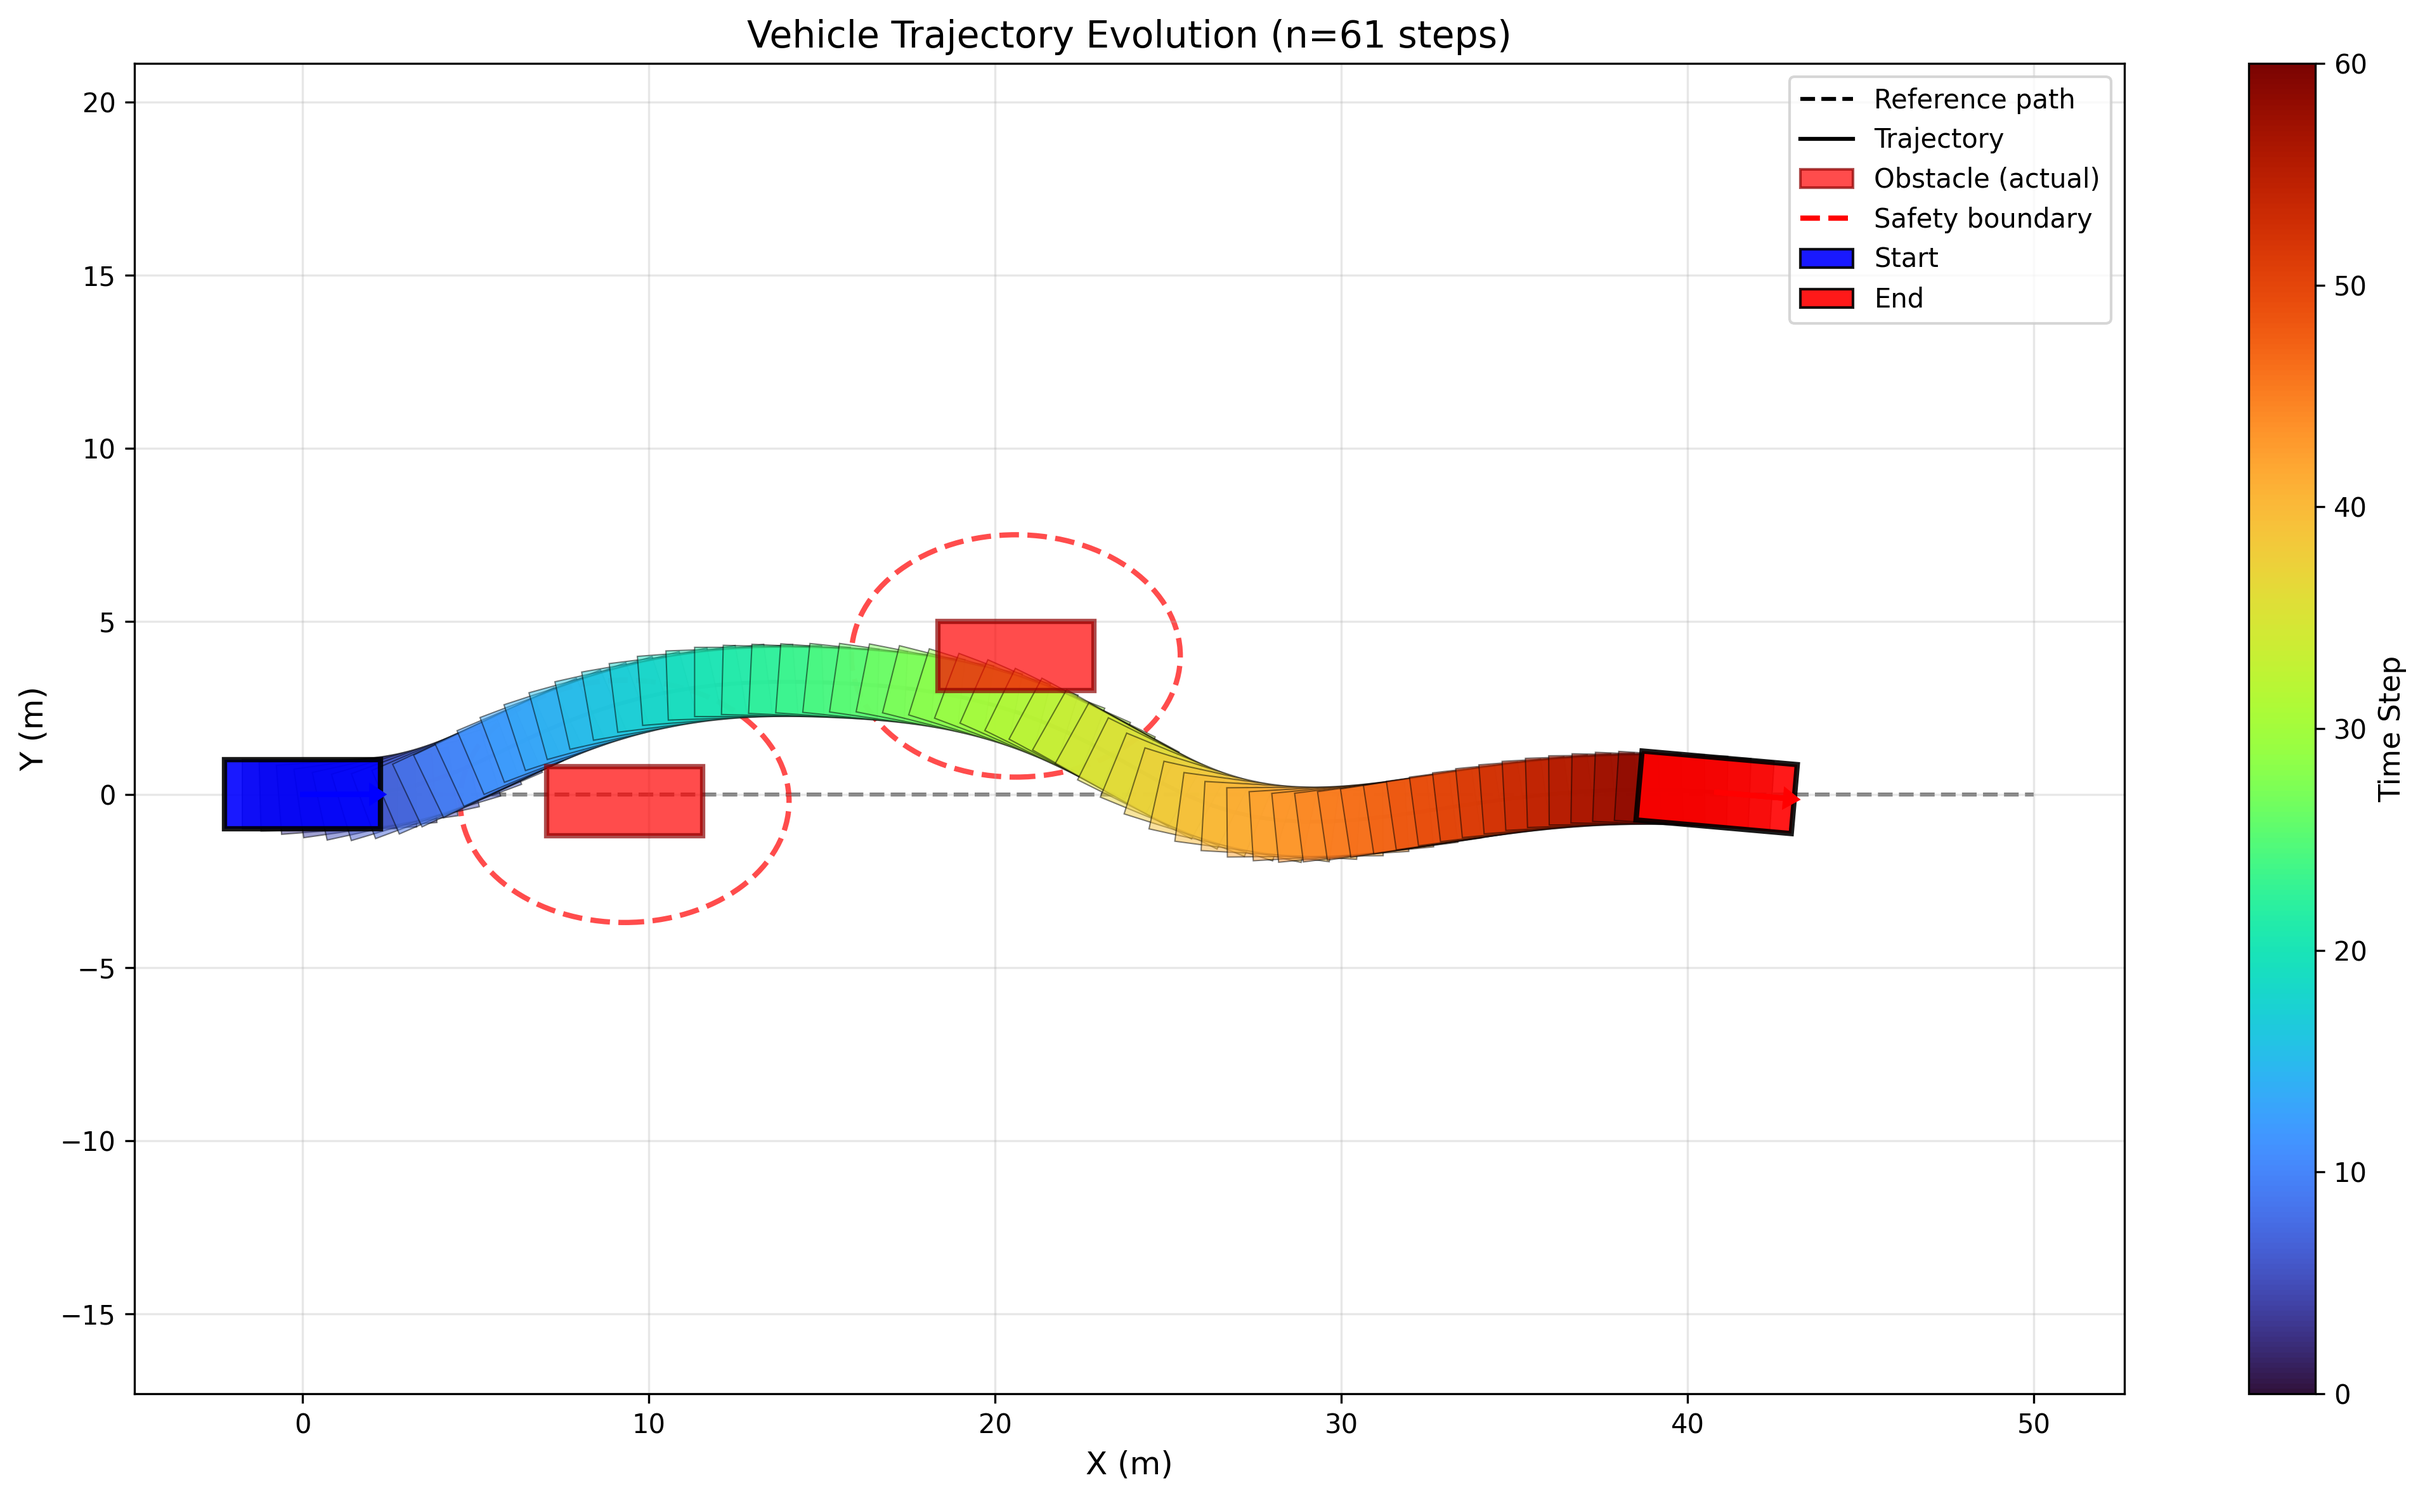
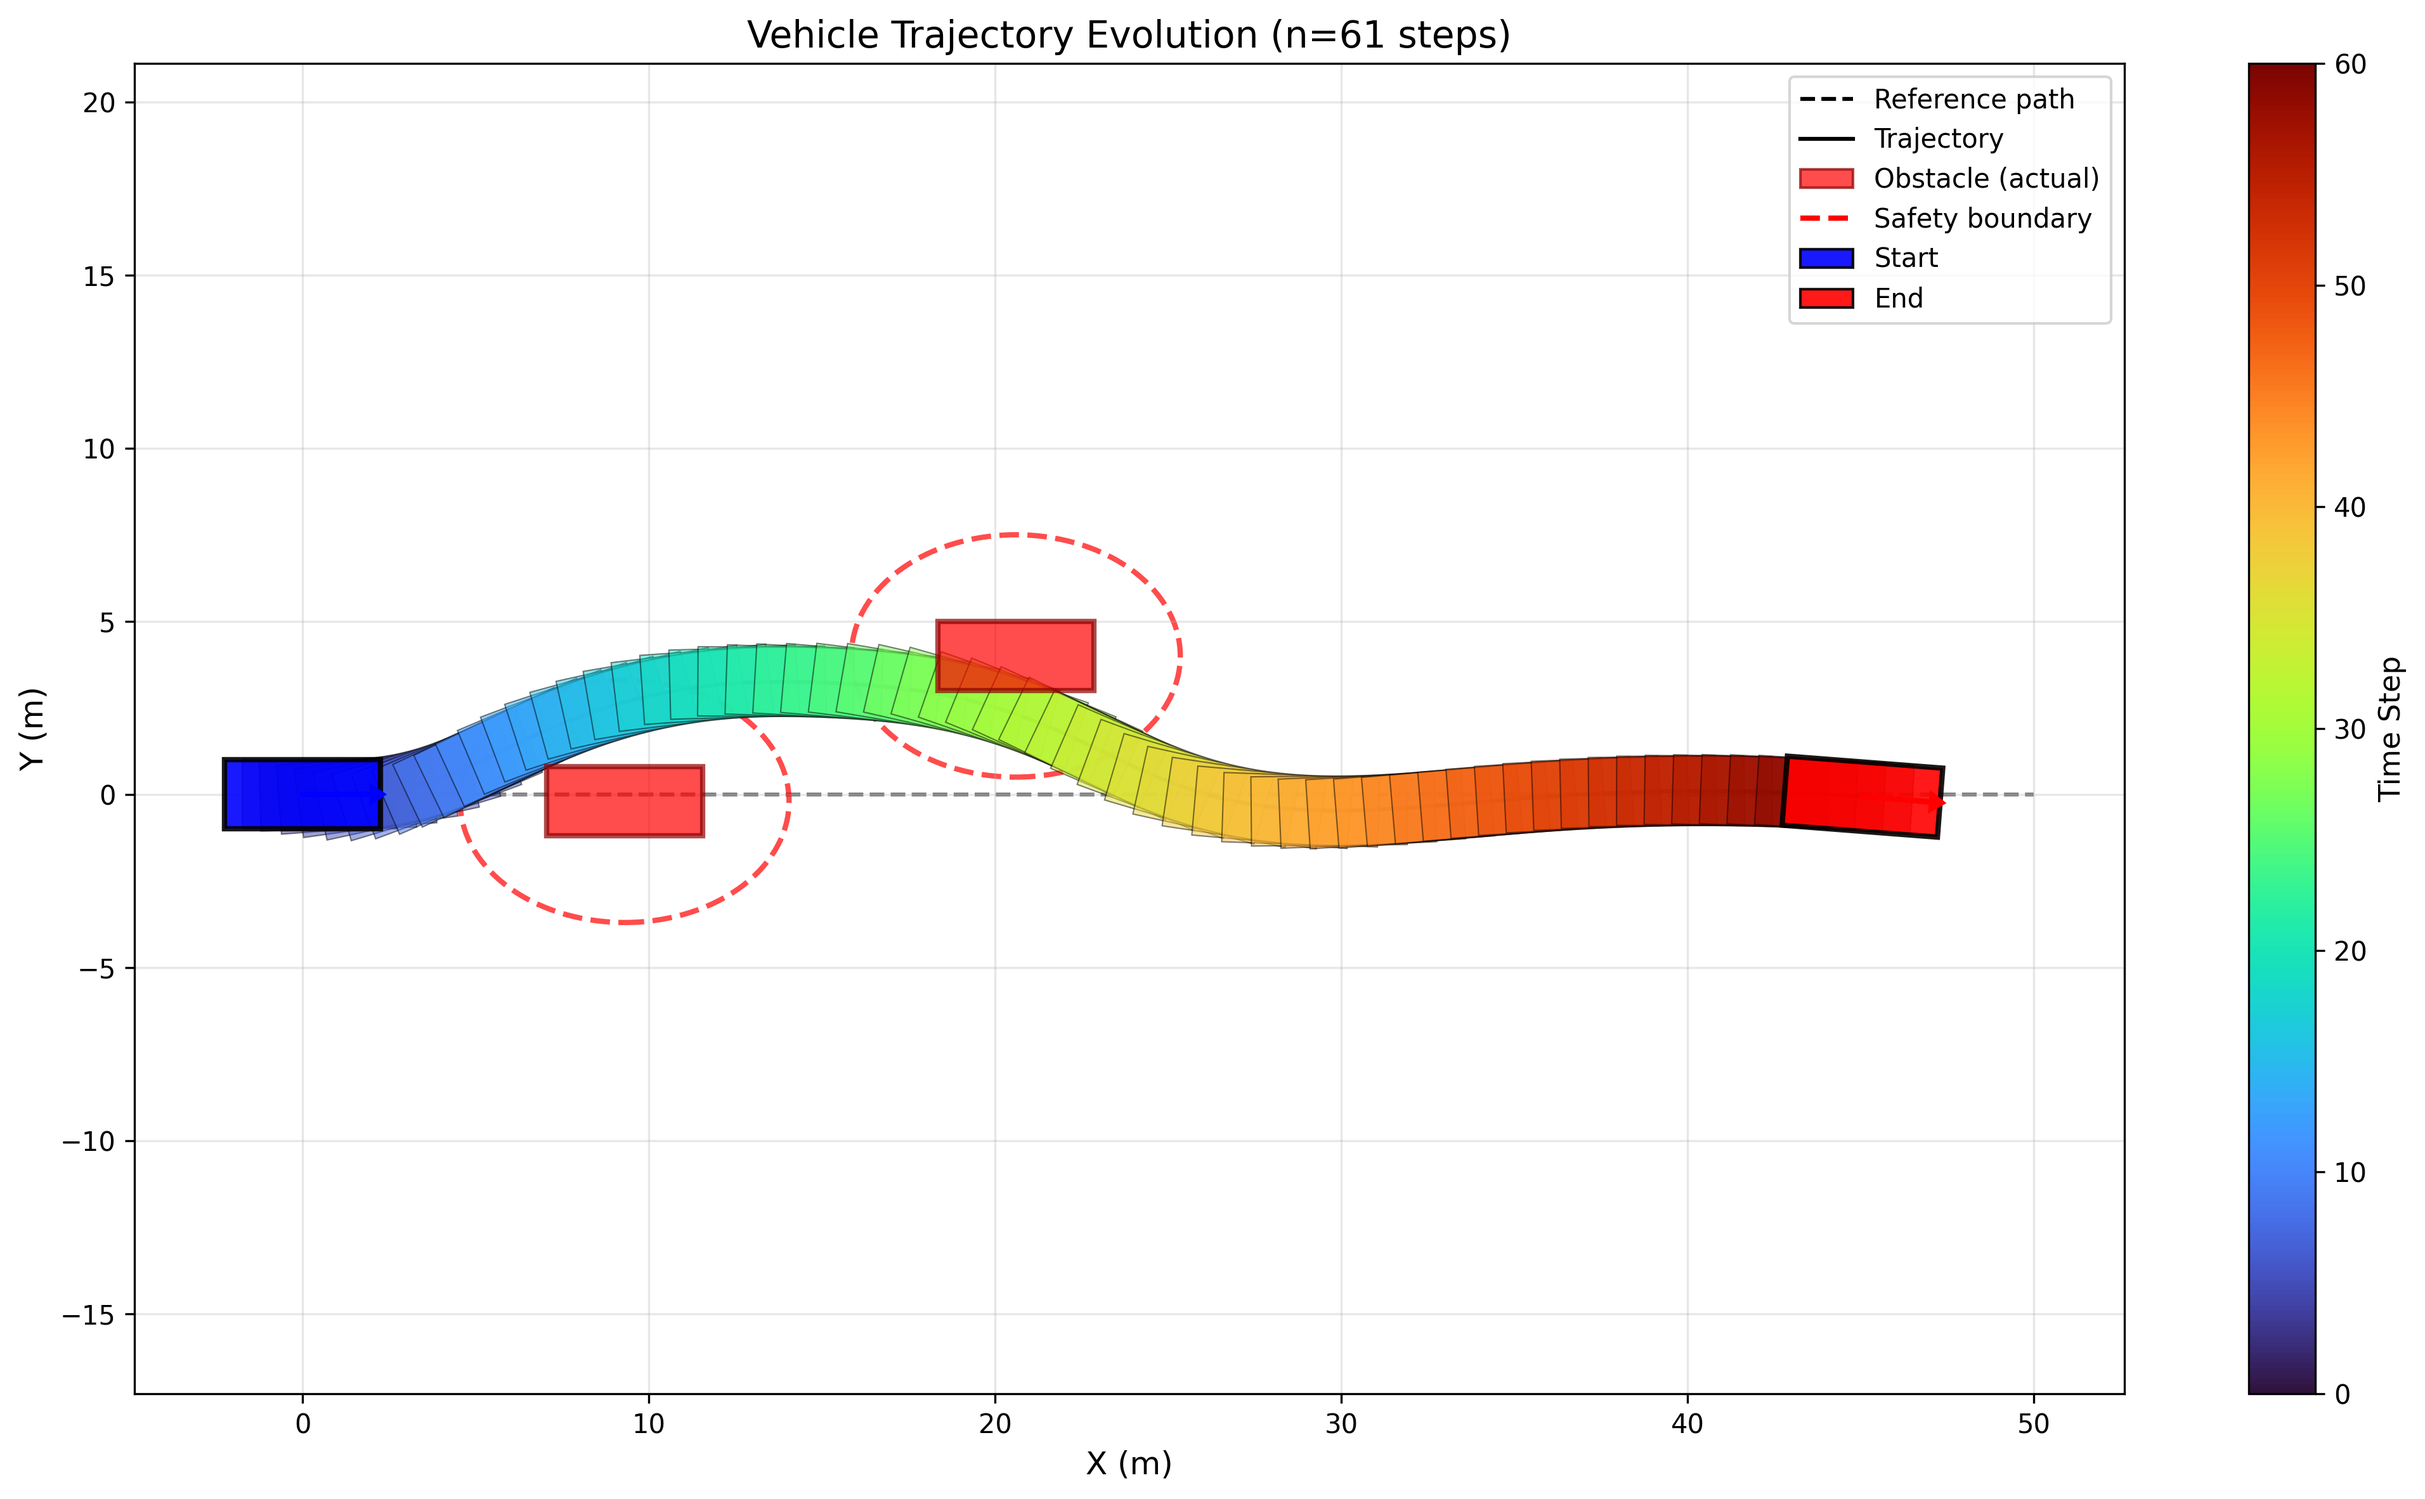
chore: Update ALM_ilqr_v3 package with improvements
- Move README.md to repository root for better visibility
- Update ALM_Model_v2.py (V2 formulation implementation)
- Update alm_ilqr_core.py with solver improvements
- Update alm_model.py with ALM model enhancements
- Update model_base.py with base class improvements
- Update planning_main.py with planning enhancements
- Update simulation files (GIF and PNG)

Changed region(s): [[0.2178, 0.4323, 0.8091, 0.5867]]

diff --git a/ALM_ilqr_v3/alm_model.py b/ALM_ilqr_v3/alm_model.py
@@ -498,6 +498,74 @@ class ALMModel(ModelBase):
         """
         return np.zeros((x.size, x.size))
 
+    def update_lambda(
+        self,
+        states: np.ndarray,
+        controls: np.ndarray,
+        obstacles: List[Obstacle]
+    ) -> None:
+        """Update Lagrange multipliers using V3 projected gradient formulation.
+
+        V3: Lambda = min(0, Lambda - mu * constraint)
+
+        Args:
+            states: State trajectory.
+            controls: Control sequence.
+            obstacles: List of obstacle objects.
+        """
+        for i in range(1, self.horizon + 1):
+            constraint = self.compute_constraint(states, controls, obstacles, i)
+            self.lambda_alm[i - 1] = self._projection(
+                self.lambda_alm[i - 1] - self.mu * constraint
+            )
+
+    def update_mu(
+        self,
+        states: np.ndarray,
+        controls: np.ndarray,
+        obstacles: List[Obstacle]
+    ) -> None:
+        """Update penalty matrix I_mu based on active constraints.
+
+        Only constraints with positive multiplier or violation are penalized.
+
+        Args:
+            states: State trajectory.
+            controls: Control sequence.
+            obstacles: List of obstacle objects.
+        """
+        if not hasattr(self, 'i_mu'):
+            constraint_dim = 2 * self.control_dim + 2 + 2 * len(obstacles)
+            self.init_multipliers(constraint_dim)
+
+        i_mu_next = self.i_mu.copy()
+        constraint_dim = 2 * self.control_dim + 2 + 2 * len(obstacles)
+
+        for i in range(1, self.horizon + 1):
+            constraint = self.compute_constraint(states, controls, obstacles, i)
+            for j in range(constraint_dim):
+                if self.lambda_alm[i - 1, j] == 0 and constraint[j] <= 0:
+                    i_mu_next[i - 1, j, j] = 0
+                else:
+                    i_mu_next[i - 1, j, j] = self.mu
+
+        self.i_mu = i_mu_next
+
+    def update_mu_scalar(self, factor: float = 2.0) -> None:
+        """Increase penalty parameter mu by multiplicative factor.
+
+        Called when constraint violation is large to increase penalty weight
+        and force constraint satisfaction.
+
+        Args:
+            factor: Multiplicative factor for increasing mu.
+        """
+        self.mu *= factor
+        for i in range(self.horizon):
+            for j in range(self.i_mu.shape[1]):
+                if self.i_mu[i, j, j] > 0:
+                    self.i_mu[i, j, j] = self.mu
+
     def compute_cost(
         self,
         states: np.ndarray,

diff --git a/ALM_ilqr_v3/model_base.py b/ALM_ilqr_v3/model_base.py
@@ -358,25 +358,23 @@ class ModelBase(ABC):
         )
         self.lambda_alm = np.zeros((self.horizon, constraint_dim))
 
+    @abstractmethod
     def update_lambda(
         self,
         states: np.ndarray,
         controls: np.ndarray,
         obstacles: List
     ) -> None:
-        """Update Lagrange multipliers using projected gradient step.
+        """Update Lagrange multipliers using ALM formulation.
 
         Args:
             states: State trajectory.
             controls: Control sequence.
             obstacles: List of obstacle objects.
         """
-        for i in range(1, self.horizon + 1):
-            constraint = self.compute_constraint(states, controls, obstacles, i)
-            self.lambda_alm[i - 1] = self._projection(
-                self.lambda_alm[i - 1] - self.mu * constraint
-            )
+        pass
 
+    @abstractmethod
     def update_mu(
         self,
         states: np.ndarray,
@@ -392,23 +390,9 @@ class ModelBase(ABC):
             controls: Control sequence.
             obstacles: List of obstacle objects.
         """
-        if not hasattr(self, 'i_mu'):
-            constraint_dim = 2 * self.control_dim + 2 + 2 * len(obstacles)
-            self.init_multipliers(constraint_dim)
+        pass
 
-        i_mu_next = self.i_mu.copy()
-        constraint_dim = 2 * self.control_dim + 2 + 2 * len(obstacles)
-
-        for i in range(1, self.horizon + 1):
-            constraint = self.compute_constraint(states, controls, obstacles, i)
-            for j in range(constraint_dim):
-                if self.lambda_alm[i - 1, j] == 0 and constraint[j] <= 0:
-                    i_mu_next[i - 1, j, j] = 0
-                else:
-                    i_mu_next[i - 1, j, j] = self.mu
-
-        self.i_mu = i_mu_next
-
+    @abstractmethod
     def update_mu_scalar(self, factor: float = 2.0) -> None:
         """Increase penalty parameter mu by multiplicative factor.
 
@@ -418,8 +402,4 @@ class ModelBase(ABC):
         Args:
             factor: Multiplicative factor for increasing mu.
         """
-        self.mu *= factor
-        for i in range(self.horizon):
-            for j in range(self.i_mu.shape[1]):
-                if self.i_mu[i, j, j] > 0:
-                    self.i_mu[i, j, j] = self.mu
+        pass

diff --git a/ALM_ilqr_v3/simulation_animation.py b/ALM_ilqr_v3/simulation_animation.py
@@ -23,7 +23,8 @@ from matplotlib.patches import Polygon
 import numpy as np
 
 from alm_ilqr_core import ALMILQRCore
-from alm_model import ALMModel
+# from alm_model import ALMModel
+from ALM_Model_v2 import ALMModelV2 as ALMModel
 from obstacle import Obstacle
 
 
@@ -45,7 +46,7 @@ CONFIG: Dict = {
     'dt': 0.1,
     'Q': np.diag([0.0, 1.0, 0.5, 0.0, 0.0]),
     'R': np.diag([1.0, 1.0]),
-    'ref_velo': 5.0,
+    'ref_velo': 8.0,
     'state_dim': 5,
     'control_dim': 2,
     'wheelbase': WHEELBASE,
@@ -58,8 +59,8 @@ CONFIG: Dict = {
     'armijo_beta': 0.5,
     'armijo_alpha_min': 1e-1,
     'init_lamb': 20.0,
-    'max_alm_iters': 8,
-    'max_ilqr_iters': 8,
+    'max_alm_iters': 10,
+    'max_ilqr_iters': 10,
     'violation_tol': 1e-4,
     'small_violation_threshold': 1e-2,
     'mu_gain': 8,
@@ -158,8 +159,10 @@ def run_simulation() -> Tuple[Dict, np.ndarray, List[Dict]]:
     obstacle_attr_2 = np.array([VEHICLE_WIDTH, VEHICLE_LENGTH, SAFETY_BUFFER])
 
     # Obstacle states [x, y, v, yaw]
-    obs_1 = [9, -0.2, 1, -0.0]
+    obs_1 = [8, -0.2, 3, -0.0]
     obs_2 = [20, 4, 2.0, 0]
+    # obs_1 = [8, -0.2, 3, -0.0]
+    # obs_2 = [20, 4, -2.0, 0]
 
     obstacle_list_init = [
         Obstacle(obs_1, obstacle_attr_1),

diff --git a/ALM_ilqr_v3/ALM_Model_v2.py b/ALM_ilqr_v3/ALM_Model_v2.py
@@ -553,3 +553,24 @@ class ALMModelV2(ModelBase):
             lxxs[i] = lxx_prime
 
         return lxs, lus, lxxs, luus, luxs
+    def update_mu(self, states, controls, obstacles):
+        I_mu_next = self.i_mu.copy()
+        constraint_dim = 2 * self.control_dim + 2 + 2 * len(obstacles)
+        for i in range(1, self.horizon + 1):
+            constraint = self.compute_constraint(states,controls,obstacles,i)
+            for j in range(constraint_dim):
+                if self.lambda_alm[i - 1, j] == 0 and constraint[j] <= 0:
+                    I_mu_next[i - 1 ,j, j] = 0
+                else:
+                    I_mu_next[i - 1 ,j, j] = self.mu
+
+        self.i_mu = I_mu_next
+    
+    def update_mu_scalar(self, factor = 2):
+        self.mu *= factor
+        # Update I_mu diagonal elements with new mu value
+        # Only update non-zero diagonal elements (active constraints)
+        for i in range(self.horizon):
+            for j in range(self.i_mu.shape[1]):
+                if self.i_mu[i, j, j] > 0:  # Active constraint
+                    self.i_mu[i, j, j] = self.mu

diff --git a/ALM_ilqr_v3/planning_main.py b/ALM_ilqr_v3/planning_main.py
@@ -17,7 +17,8 @@ from matplotlib.lines import Line2D
 from matplotlib.patches import Polygon
 
 from alm_ilqr_core import ALMILQRCore
-from ALM_Model_v2 import ALMModelV2
+# from ALM_Model_v2 import ALMModelV2 as ALMModel
+from alm_model import ALMModel
 from obstacle import Obstacle
 
 
@@ -39,7 +40,7 @@ CONFIG = {
     'dt': 0.1,
     'Q': np.diag([0.0, 1.0, 0.5, 0.0, 0.0]),
     'R': np.diag([1.0, 1.0]),
-    'ref_velo': 6.0,
+    'ref_velo': 8.0,
     'state_dim': 5,
     'control_dim': 2,
     'wheelbase': WHEELBASE,
@@ -128,7 +129,7 @@ def run_planning() -> Tuple[np.ndarray, np.ndarray, list, list]:
 
     # Obstacle states [x, y, v, yaw]
     obs_1 = [8, -0.2, 3, -0.0]
-    obs_2 = [20, 4, -2.0, 0]
+    obs_2 = [20, 4, 2.0, 0]
 
     obstacle_list = [
         Obstacle(obs_1, obstacle_attr_1),
@@ -136,7 +137,7 @@ def run_planning() -> Tuple[np.ndarray, np.ndarray, list, list]:
     ]
 
     # Create model
-    model = ALMModelV2(CONFIG)
+    model = ALMModel(CONFIG)
     ego_state = [0.0, 0.0, 5.0, 0.0, 0]  # [x, y, v, phi, yaw]
 
     init_control = np.zeros((60, 2))

diff --git a/ALM_ilqr_v3/alm_ilqr_core.py b/ALM_ilqr_v3/alm_ilqr_core.py
@@ -21,6 +21,7 @@ Example:
 from typing import TYPE_CHECKING, Dict, List, Tuple
 
 import numpy as np
+from model_base import ModelBase
 
 if TYPE_CHECKING:
     from alm_model import ALMModel
@@ -54,7 +55,7 @@ class ALMILQRCore:
         control_dim: Control vector dimension.
     """
 
-    def __init__(self, model: 'ALMModel', config: Dict) -> None:
+    def __init__(self, model: ModelBase, config: Dict) -> None:
         """Initialize the ALM iLQR solver.
 
         Args:
